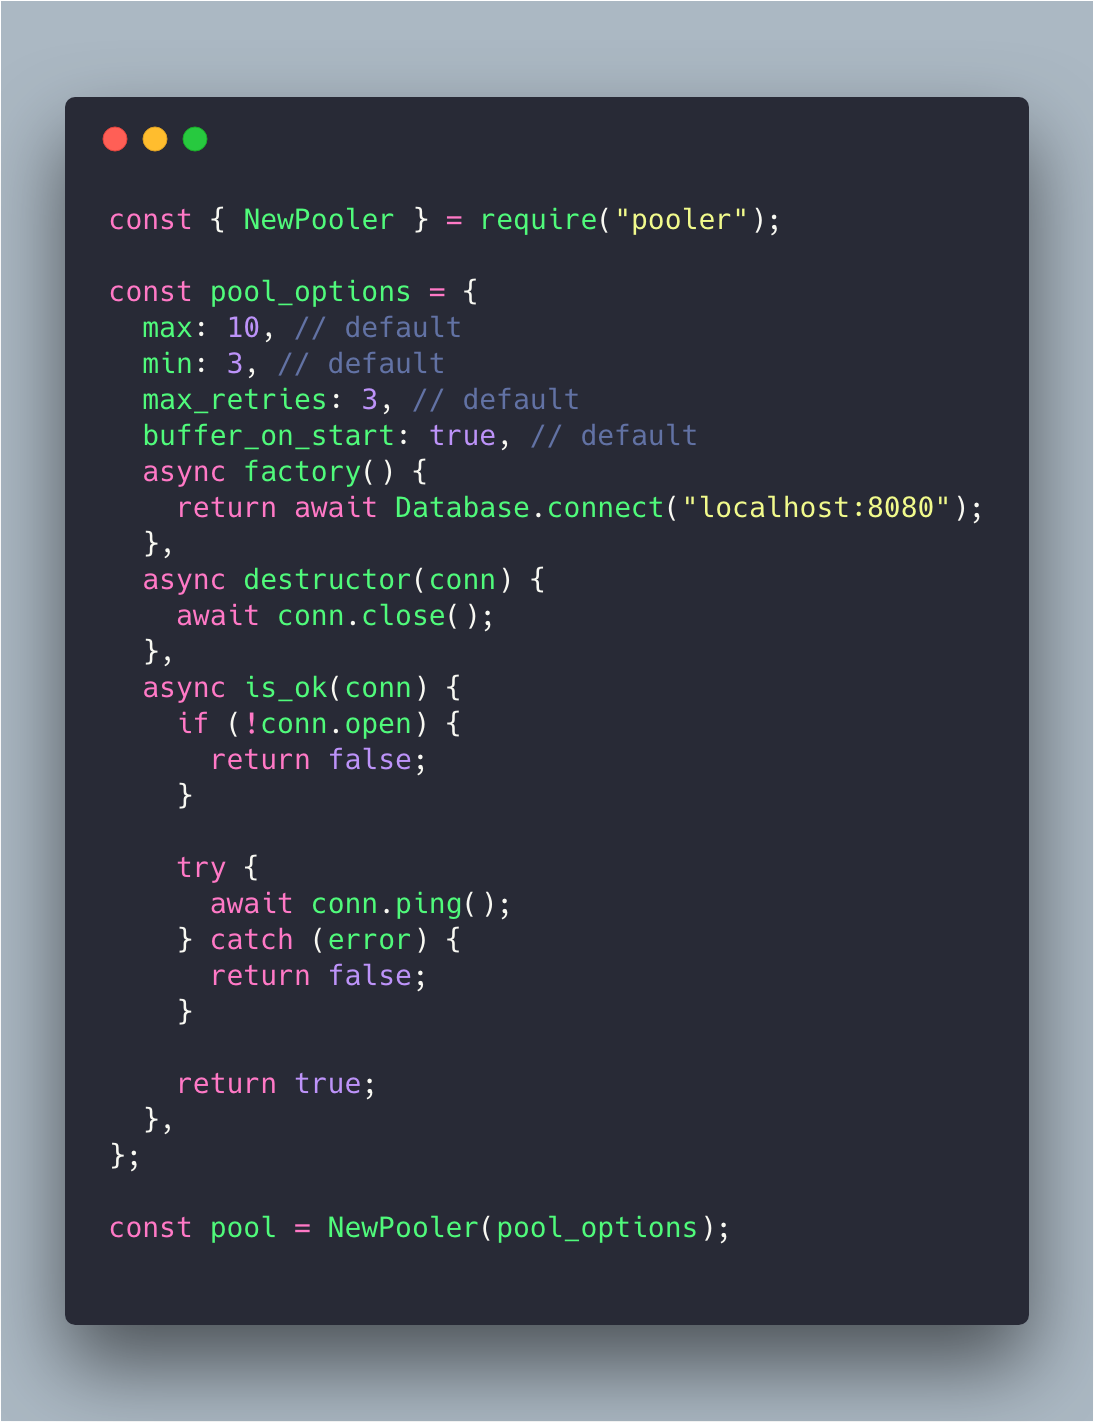
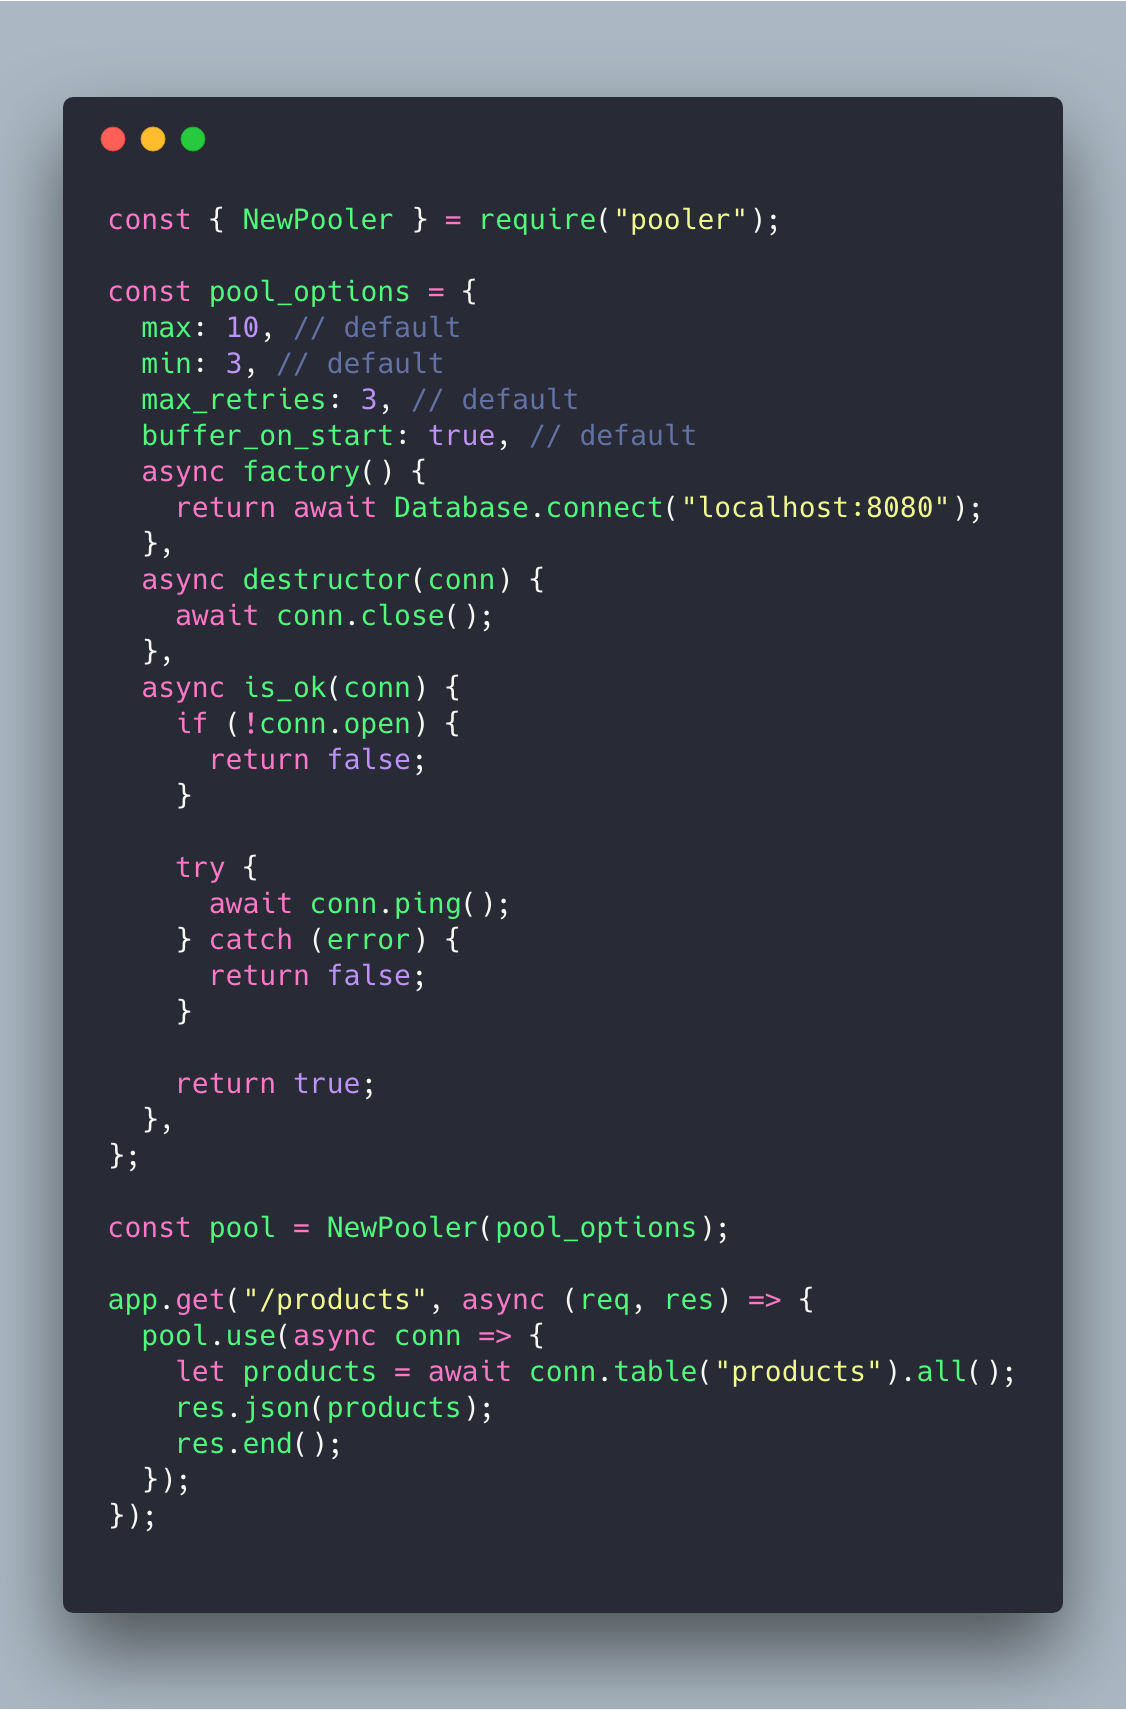
chore(docs): update example

diff --git a/docs/example.db.js b/docs/example.db.js
@@ -27,3 +27,11 @@ const pool_options = {
 };
 
 const pool = NewPooler(pool_options);
+
+app.get("/products", async (req, res) => {
+  pool.use(async conn => {
+    let products = await conn.table("products").all();
+    res.json(products);
+    res.end();
+  });
+});
